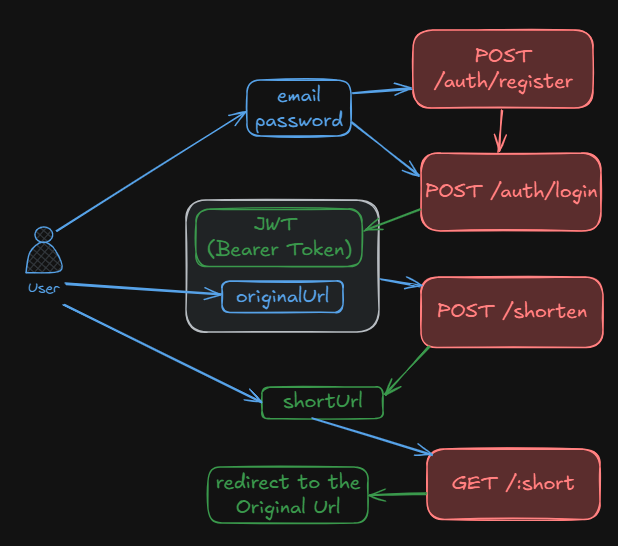
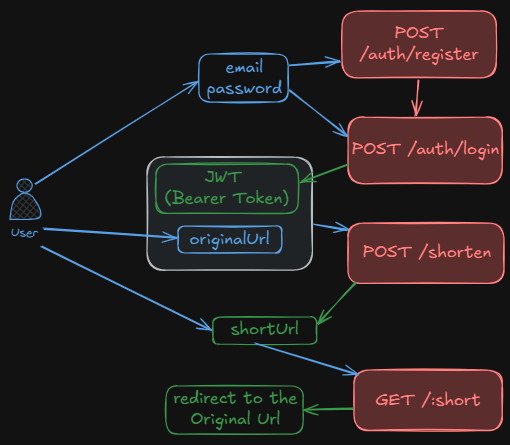
docs: update main Functionalities Diagram and remove redundant architecture overview image

Changed region(s): [[0.0, 0.0, 1.0, 0.9933], [0.1471, 0.5843, 0.3529, 0.7011], [0.0882, 0.5551, 0.1471, 0.5843]]

diff --git a/README.md b/README.md
@@ -7,13 +7,11 @@ https://url-shortener2-xzhs.onrender.com
 
 
 ## Diagram - main functionalities
-![alt text](url-shortener-diagram.png)
+![main functionalities overview](url-shortener-diagram.png)
 
 ## Architecture Diagram
 
 📊 **[View detailed architecture diagram](./architecture-diagram.md)** - Complete ASCII diagram showing all layers, components, and data flow.
-
-![Architecture Overview](url-shortener-diagram.png)
 
 ## Project setup
 
